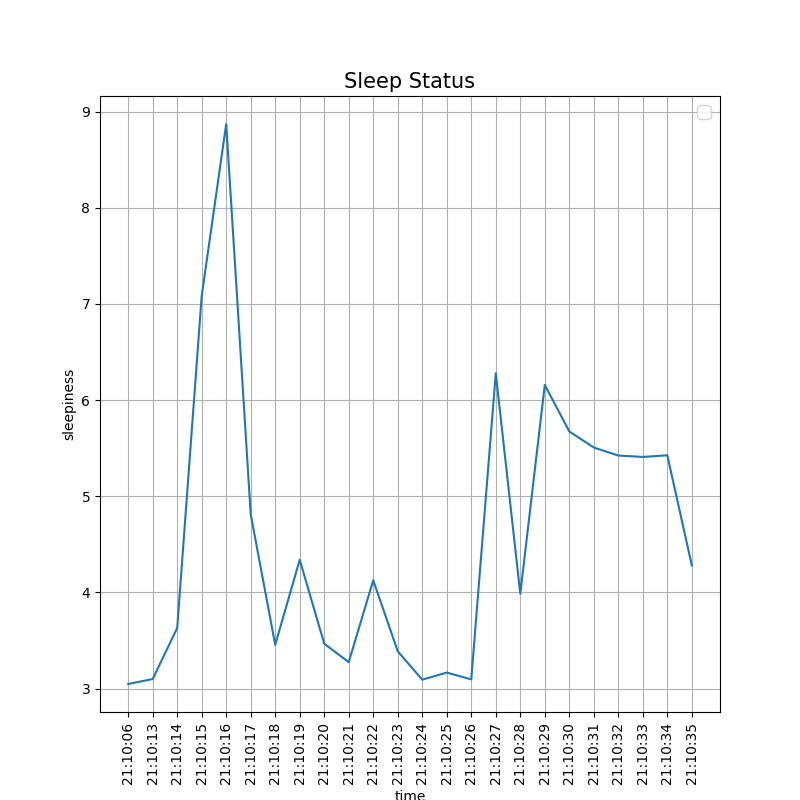
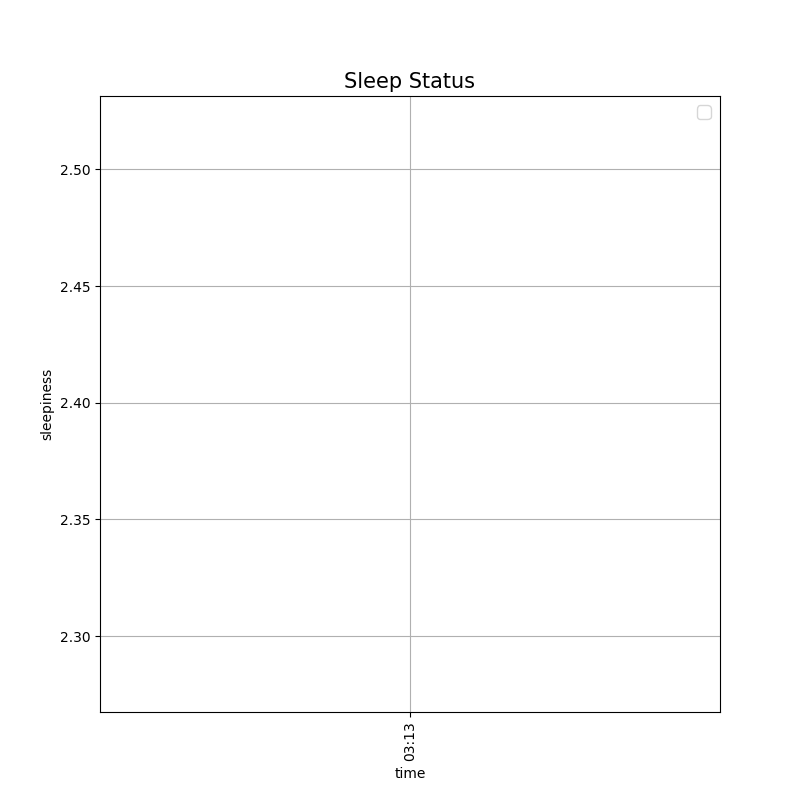
fix: change data collection point

diff --git a/recognitions/views.py b/recognitions/views.py
@@ -1,8 +1,57 @@
 from django.shortcuts import render
+import dataImage
+
+import csv
+import pandas as pd
+from matplotlib import pyplot as plt
+from PIL import Image, ImageDraw, ImageFont
+import textwrap
+
+from models.sleep_detection import dataCollection
+
 
 # Create your views here.
 def course(request):
     return render(request, 'recognitions/course.html')
 
 def result(request):
+    dataCollection()
+
+    #하품 0 자리비움 1
+    earDF = pd.read_csv("static/data/imgDF.csv")
+    outDF= pd.read_csv("static/data/txtDF.csv")
+
+    earDF.columns=['earRatio','time']
+    outDF.columns=['label','time']
+
+    earDF=earDF.drop_duplicates(['time'])
+    outDF=outDF.drop_duplicates(['time'])
+
+    plt.figure(figsize=(8,8))
+    plt.title("Sleep Status", fontsize=15)
+    plt.plot( earDF["time"],earDF["earRatio"])
+    plt.grid()
+    plt.xlabel('time')
+    plt.ylabel('sleepiness')
+    plt.legend(fontsize=13)
+    plt.xticks(rotation=90)
+    plt.savefig('static/img/sleepGraph.png')
+
+    fnt = ImageFont.truetype("static/font/malgun.ttf",18)
+    img = Image.new('RGB', (500, 500),color="white")
+    pallete = ImageDraw.Draw(img)
+
+    lines = textwrap
+    line_size=0
+
+    for idx, row in outDF.iterrows():
+        time=row['time']
+        if row['label']==0:
+            pallete.text((40, 40+line_size),str(time)+ ' 에 하품을 하였습니다.',font=fnt,fill="black")
+        else:
+            pallete.text((40, 40+line_size),str(time)+ ' 에 자리를 이탈하였습니다.',font=fnt,fill="black")
+        line_size+=25
+
+    img.save('static/img/text.png')
+
     return render(request, "recognitions/result.html")

diff --git a/core/views.py b/core/views.py
@@ -1,4 +1,3 @@
-
 import cv2
 import threading
 import dlib
@@ -63,7 +62,6 @@ class VideoCamera(object):
         if type(image) != np.ndarray:
             _, image = TEMP_CAP.read()
         #self.create_Data()
-        print(image)
         sleep_detect(image)
         # jpeg encoding
         _, jpeg = cv2.imencode('.jpg', image)

diff --git a/models/sleep_detection.py b/models/sleep_detection.py
@@ -80,7 +80,6 @@ def sleep_detect(image):
     if prev_yawn_status == True and YAWN_STATUS == False:
         YAWN_COUNTER += 1
         if YAWN_COUNTER == 3:
-            dataCollection()
             try:
                 cap = cv2.VideoCapture(0)
                 pose_detect(cap)
